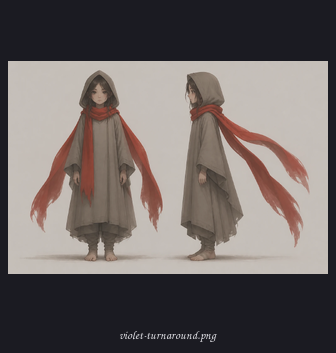
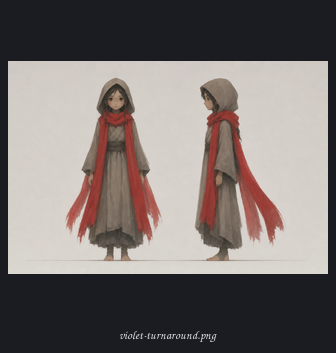
review: publish the pr-19 gallery

Changed region(s): [[0.0595, 0.187, 0.9226, 0.779], [0.8929, 0.7479, 0.9821, 0.779], [0.0298, 0.7479, 0.0595, 0.779]]

diff --git a/review/pr-19/index.html b/review/pr-19/index.html
@@ -12,4 +12,4 @@ h1 { font-size: 1.25rem; margin: 0 0 1rem; }
 .provenance dd { margin: 0 0 .15rem; white-space: pre-wrap; }
 .problem { color: #f59e8b; font-size: .85rem; margin: .5rem 0 0; }
 .hash { color: #6b6b78; font-size: .75rem; word-break: break-all; }
-</style></head><body><h1>Review: PR 19</h1><div class="sheet"><img src="contact-sheet.png" alt="contact sheet"></div><div class="items"><section class="item"><h2>violet-turnaround.png</h2><a href="items/01-violet-turnaround.webp"><img src="items/01-violet-turnaround.webp" alt="violet-turnaround.png" loading="lazy"></a><dl class="provenance"><dt>origin</dt><dd>generated</dd><dt>tool</dt><dd>gen 0.1.0</dd><dt>model</dt><dd>gpt-image-2 (openai)</dd><dt>prompt</dt><dd>Character turnaround sheet, front view and right-side view standing on the same ground line at the same scale, of Violet: Violet, a slight traveller about 4.5 heads tall in a long hooded robe in muted warm gray (#8a8078) with a darker hem, bare feet or soft wraps, and a long scarf (three segments, ends trailing 1.5× head length) that is the only saturated element on the character: gray when no color is active, the active color otherwise. Stylized adventure-game proportions, genuinely 4.5 heads tall (large head, short slight body, like a young traveller, not a realistic adult figure), simplified face with soft blurred features and no linework, no eyelashes, no makeup detail. Painted, soft-edged, matte flat brushwork like GRIS and Planet of Lana concept art, no outlines, no anime line work, no pixel art, plain warm gray background, no text.</dd><dt>input</dt><dd>assets/concept/scarf-openai.png</dd><dt>license</dt><dd>proprietary</dd></dl><p class="hash">sha256 bb06a09341e75521fa974b7b73dc6e637797fecc25335260d8491a764422a7c4</p></section></div></body></html>
+</style></head><body><h1>Review: PR 19</h1><div class="sheet"><img src="contact-sheet.png" alt="contact sheet"></div><div class="items"><section class="item"><h2>violet-turnaround.png</h2><a href="items/01-violet-turnaround.webp"><img src="items/01-violet-turnaround.webp" alt="violet-turnaround.png" loading="lazy"></a><dl class="provenance"><dt>origin</dt><dd>generated</dd><dt>tool</dt><dd>gen 0.1.0</dd><dt>model</dt><dd>gpt-image-2 (openai)</dd><dt>prompt</dt><dd>Character turnaround sheet, front view and right-side view standing on the same ground line at the same scale, of Violet: Violet, a slight traveller about 4.5 heads tall in a long hooded robe in muted warm gray (#8a8078) with a darker hem, bare feet or soft wraps, and a long scarf (three segments, ends trailing 1.5× head length) that is the only saturated element on the character: gray when no color is active, the active color otherwise. Stylized adventure-game proportions, genuinely 4.5 heads tall (large head, short slight body, like a young traveller, not a realistic adult figure), simplified face with soft blurred features and no linework, no eyelashes, no makeup detail. Painted, soft-edged, matte flat brushwork like GRIS and Planet of Lana concept art, no outlines, no anime line work, no pixel art, plain warm gray background, no text.</dd><dt>input</dt><dd>assets/concept/scarf-openai.png</dd><dt>license</dt><dd>proprietary</dd></dl><p class="hash">sha256 f2f023962adfdaf5707dabdf84846ff4ed803aa0e5a61e13972453ddf163c36a</p></section></div></body></html>
